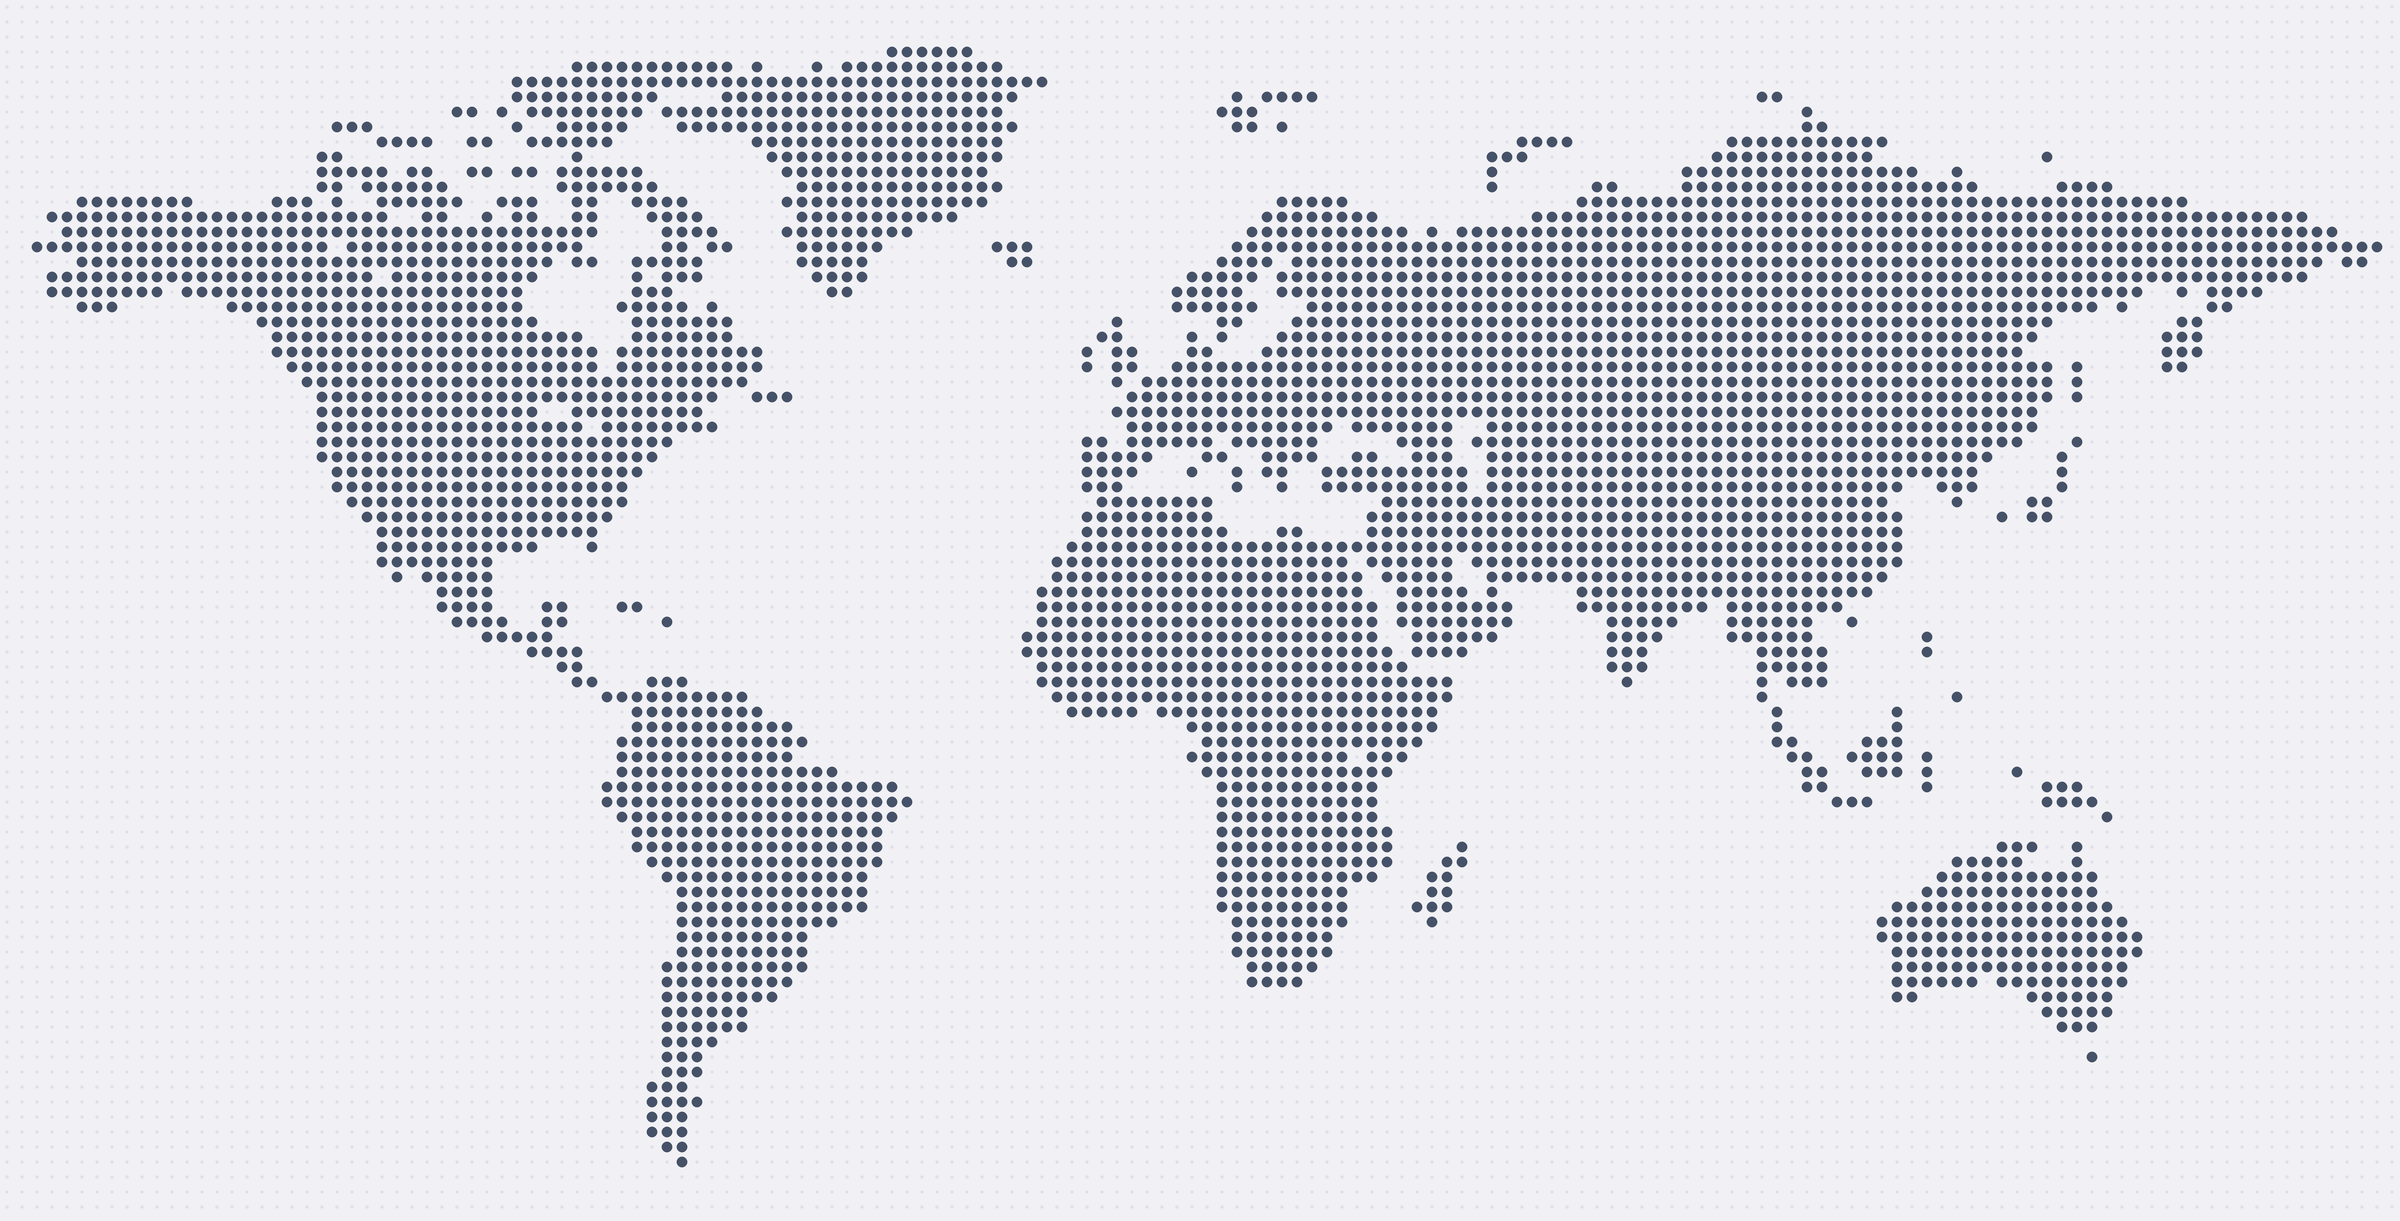
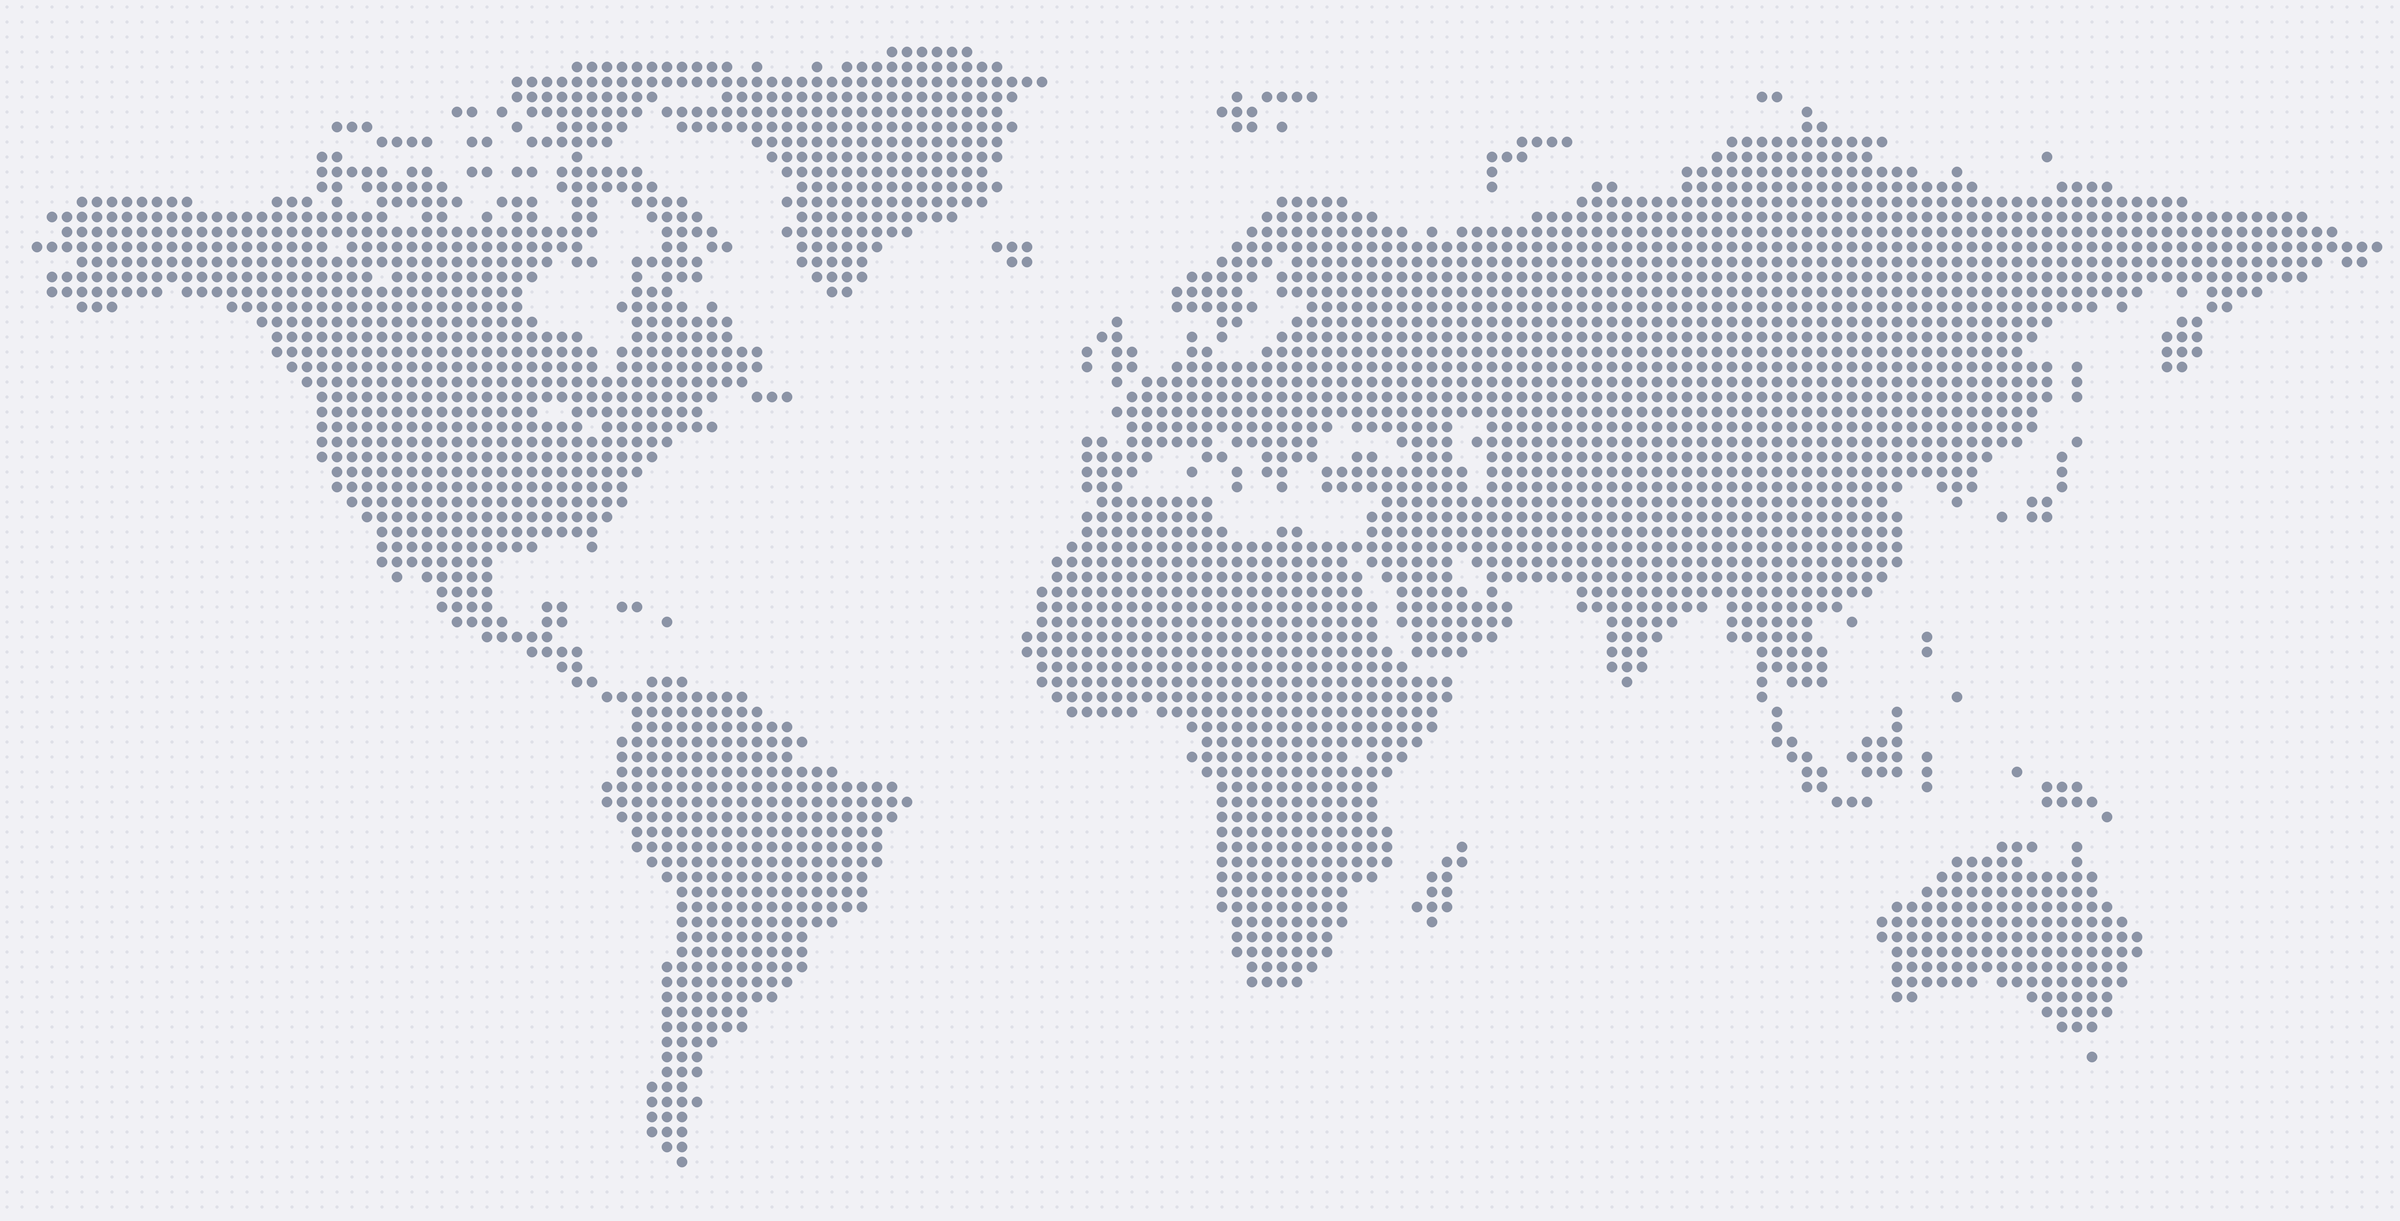
Softer continent dots
Claude-Session: https://claude.ai/code/session_017ocz2LVHvEUrvgQ1nj5xaW

diff --git a/outage-map.html b/outage-map.html
@@ -30,7 +30,7 @@
 <div class="nl-scrim" id="nl-scrim" hidden></div>
 <nav class="nl-drawer" id="nl-drawer" aria-label="Main menu"><button class="nl-close" id="nl-close" type="button" aria-label="Close menu">&times;</button><h2>Check</h2><a href="/">Website checker<small>Is it down, or just you?</small></a><a href="/is-it-down/">All apps &amp; sites</a><a href="/outage-map">Outage map<small>Reachability around the world</small></a><a href="/monitor">Monitor &amp; alerts<small>Watch up to 25 sites</small></a><h2>Tools</h2><a href="/internet-speed-test">Internet speed test</a><a href="/speed">Website speed test</a><a href="/what-is-my-ip">What is my IP?</a><a href="/game-ping-test">Game ping test</a><a href="/tools/">All tools</a><h2>Learn</h2><a href="/help/">Help centre<small>Plain-English guides</small></a><a href="/how-we-check">How we check</a><a href="/faq">FAQ</a><h2>More</h2><a href="/account" class="nl-sub">Account</a><a href="/about" class="nl-sub">About</a><a href="/business" class="nl-sub">For business</a><a href="/contact" class="nl-sub">Contact</a></nav>
 <main id="main">
-<section class="page"><div class="wrap prose toolpage"><nav class="crumbs" aria-label="Breadcrumb"><a href="/">Home</a> / Outage map</nav><h1 style="margin:14px 0 8px">Global outage map<span class="dot">.</span></h1><p class="lead">Where in the world are websites and apps reachable right now? Each dot shows how the sites we watch look from that place.</p><div class="hm-tabs" role="group" aria-label="Map layer"><button type="button" class="btn small" data-hm="reach" aria-pressed="true"><span>Reachability</span></button><button type="button" class="btn small" data-hm="speed" aria-pressed="false"><span>Response time</span></button></div><div class="hm-world dg" id="hm-map"><div class="hm-scroll"><div class="hm-inner"><svg viewBox="0 0 2400 1221" role="img" aria-label="World map with a flag for each place we check from. The table below lists every place."><image href="/assets/nl-continents-digital.png?v=6" x="0" y="0" width="2400" height="1221"/><g id="hm-lay"></g></svg><div class="hm-bub" id="hm-bub" aria-live="polite"></div></div></div></div><p class="note hm-hint">Hover or tap a dot, or a country in the list, for details.</p><div class="hm-leg" id="hm-leg"></div><div class="sp-card"><div class="hm-card" id="hm-card" aria-live="polite"></div><p class="note" id="hm-sum">Loading the map&hellip;</p><div class="rt-wrap"><table class="rt"><thead><tr><th>Place</th><th>Sites reached</th><th>Typical time</th></tr></thead><tbody id="hm-tab"></tbody></table></div></div><form class="card hm-mine" onsubmit="var v=this.q.value.trim();if(v)location.href='/?q='+encodeURIComponent(v);return false" novalidate><b>Is a site down in your country?</b><span>Type any website and we check it from all our places at once, so you can see where it works and where it does not.</span><div class="hm-mrow"><input name="q" type="text" inputmode="url" autocomplete="off" autocapitalize="none" spellcheck="false" placeholder="e.g. netflix.com" aria-label="Website address"><button class="btn small" type="submit"><span>Check</span></button></div></form><div id="hm-sites"></div><h2>How to read this map</h2><ul><li>Green means almost every site we watch answered from that place. Amber and red mean more of them did not.</li><li>A whole place turning red can point to a problem with a network or country, not just one website.</li><li>Some sites deliberately block automated checks from certain countries, so a lower figure is a hint, not proof of an outage.</li><li>The data comes from probes on the public <a href="https://globalping.io" rel="noopener">Globalping</a> network, refreshed through the day. Read <a href="/how-we-check">how we check</a> for the details.</li></ul><p style="margin-top:20px"><a href="/">&larr; Back to the website checker</a></p></div></section></main>
+<section class="page"><div class="wrap prose toolpage"><nav class="crumbs" aria-label="Breadcrumb"><a href="/">Home</a> / Outage map</nav><h1 style="margin:14px 0 8px">Global outage map<span class="dot">.</span></h1><p class="lead">Where in the world are websites and apps reachable right now? Each dot shows how the sites we watch look from that place.</p><div class="hm-tabs" role="group" aria-label="Map layer"><button type="button" class="btn small" data-hm="reach" aria-pressed="true"><span>Reachability</span></button><button type="button" class="btn small" data-hm="speed" aria-pressed="false"><span>Response time</span></button></div><div class="hm-world dg" id="hm-map"><div class="hm-scroll"><div class="hm-inner"><svg viewBox="0 0 2400 1221" role="img" aria-label="World map with a flag for each place we check from. The table below lists every place."><image href="/assets/nl-continents-digital.png?v=7" x="0" y="0" width="2400" height="1221"/><g id="hm-lay"></g></svg><div class="hm-bub" id="hm-bub" aria-live="polite"></div></div></div></div><p class="note hm-hint">Hover or tap a dot, or a country in the list, for details.</p><div class="hm-leg" id="hm-leg"></div><div class="sp-card"><div class="hm-card" id="hm-card" aria-live="polite"></div><p class="note" id="hm-sum">Loading the map&hellip;</p><div class="rt-wrap"><table class="rt"><thead><tr><th>Place</th><th>Sites reached</th><th>Typical time</th></tr></thead><tbody id="hm-tab"></tbody></table></div></div><form class="card hm-mine" onsubmit="var v=this.q.value.trim();if(v)location.href='/?q='+encodeURIComponent(v);return false" novalidate><b>Is a site down in your country?</b><span>Type any website and we check it from all our places at once, so you can see where it works and where it does not.</span><div class="hm-mrow"><input name="q" type="text" inputmode="url" autocomplete="off" autocapitalize="none" spellcheck="false" placeholder="e.g. netflix.com" aria-label="Website address"><button class="btn small" type="submit"><span>Check</span></button></div></form><div id="hm-sites"></div><h2>How to read this map</h2><ul><li>Green means almost every site we watch answered from that place. Amber and red mean more of them did not.</li><li>A whole place turning red can point to a problem with a network or country, not just one website.</li><li>Some sites deliberately block automated checks from certain countries, so a lower figure is a hint, not proof of an outage.</li><li>The data comes from probes on the public <a href="https://globalping.io" rel="noopener">Globalping</a> network, refreshed through the day. Read <a href="/how-we-check">how we check</a> for the details.</li></ul><p style="margin-top:20px"><a href="/">&larr; Back to the website checker</a></p></div></section></main>
 <footer class="site-foot"><div class="wrap nl-foot">
 <img src="/assets/nl-logo-light.png" alt="Site up down?" width="831" height="391">
 <p class="note">Less refreshing. More knowing.</p>

diff --git a/_tools/build.py b/_tools/build.py
@@ -827,7 +827,7 @@ def heatmap_page():
             '<h1 style="margin:14px 0 8px">Global outage map<span class="dot">.</span></h1>'
             '<p class="lead">Where in the world are websites and apps reachable right now? Each dot shows how the sites we watch look from that place.</p>'
             '<div class="hm-tabs" role="group" aria-label="Map layer"><button type="button" class="btn small" data-hm="reach" aria-pressed="true"><span>Reachability</span></button><button type="button" class="btn small" data-hm="speed" aria-pressed="false"><span>Response time</span></button></div>'
-            '<div class="hm-world dg" id="hm-map"><div class="hm-scroll"><div class="hm-inner"><svg viewBox="0 0 2400 1221" role="img" aria-label="World map with a flag for each place we check from. The table below lists every place."><image href="/assets/nl-continents-digital.png?v=6" x="0" y="0" width="2400" height="1221"/><g id="hm-lay"></g></svg><div class="hm-bub" id="hm-bub" aria-live="polite"></div></div></div></div><p class="note hm-hint">Hover or tap a dot, or a country in the list, for details.</p><div class="hm-leg" id="hm-leg"></div><div class="sp-card"><div class="hm-card" id="hm-card" aria-live="polite"></div><p class="note" id="hm-sum">Loading the map&hellip;</p>'
+            '<div class="hm-world dg" id="hm-map"><div class="hm-scroll"><div class="hm-inner"><svg viewBox="0 0 2400 1221" role="img" aria-label="World map with a flag for each place we check from. The table below lists every place."><image href="/assets/nl-continents-digital.png?v=7" x="0" y="0" width="2400" height="1221"/><g id="hm-lay"></g></svg><div class="hm-bub" id="hm-bub" aria-live="polite"></div></div></div></div><p class="note hm-hint">Hover or tap a dot, or a country in the list, for details.</p><div class="hm-leg" id="hm-leg"></div><div class="sp-card"><div class="hm-card" id="hm-card" aria-live="polite"></div><p class="note" id="hm-sum">Loading the map&hellip;</p>'
             '<div class="rt-wrap"><table class="rt"><thead><tr><th>Place</th><th>Sites reached</th><th>Typical time</th></tr></thead><tbody id="hm-tab"></tbody></table></div></div>'
             '<form class="card hm-mine" onsubmit="var v=this.q.value.trim();if(v)location.href=\'/?q=\'+encodeURIComponent(v);return false" novalidate><b>Is a site down in your country?</b><span>Type any website and we check it from all our places at once, so you can see where it works and where it does not.</span><div class="hm-mrow"><input name="q" type="text" inputmode="url" autocomplete="off" autocapitalize="none" spellcheck="false" placeholder="e.g. netflix.com" aria-label="Website address"><button class="btn small" type="submit"><span>Check</span></button></div></form>'
             '<div id="hm-sites"></div>'

diff --git a/_tools/make_digital.py b/_tools/make_digital.py
@@ -9,7 +9,7 @@ img=Image.new('RGB',(W*S,H*S),(241,241,245));d=ImageDraw.Draw(img)
 for y in range(P//2,H,P):
     for x in range(P//2,W,P):
         v=t[max(0,y-P//2):y+P//2,max(0,x-P//2):x+P//2].mean()
-        if v>.5: r,c=5.2,(70,82,104)
+        if v>.5: r,c=5.2,(140,148,166)
         else: r,c=1.5,(223,224,232)
         d.ellipse([(x-r)*S,(y-r)*S,(x+r)*S,(y+r)*S],fill=c)
 img.resize((W,H),Image.LANCZOS).save('assets/nl-continents-digital.png',optimize=True)
